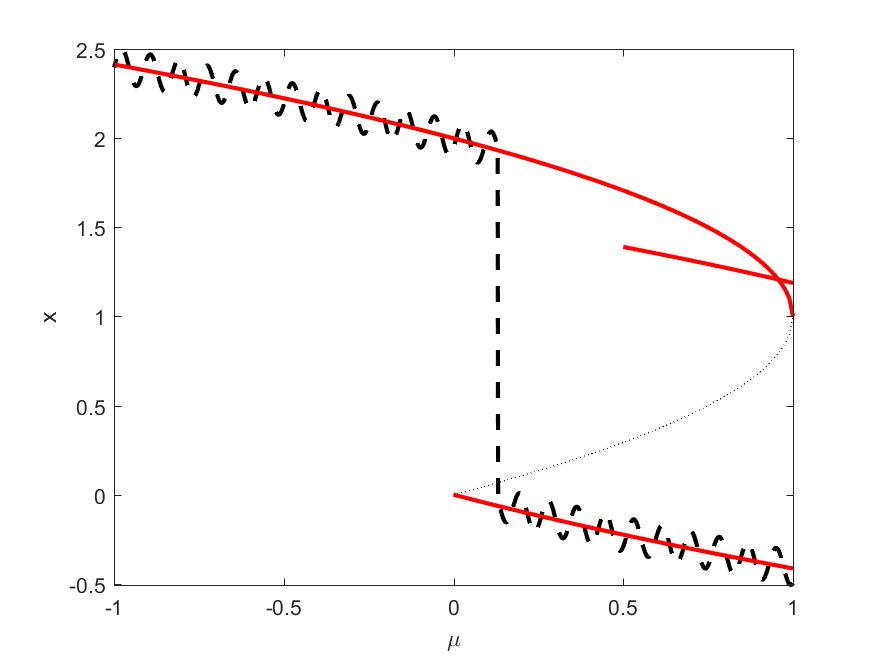
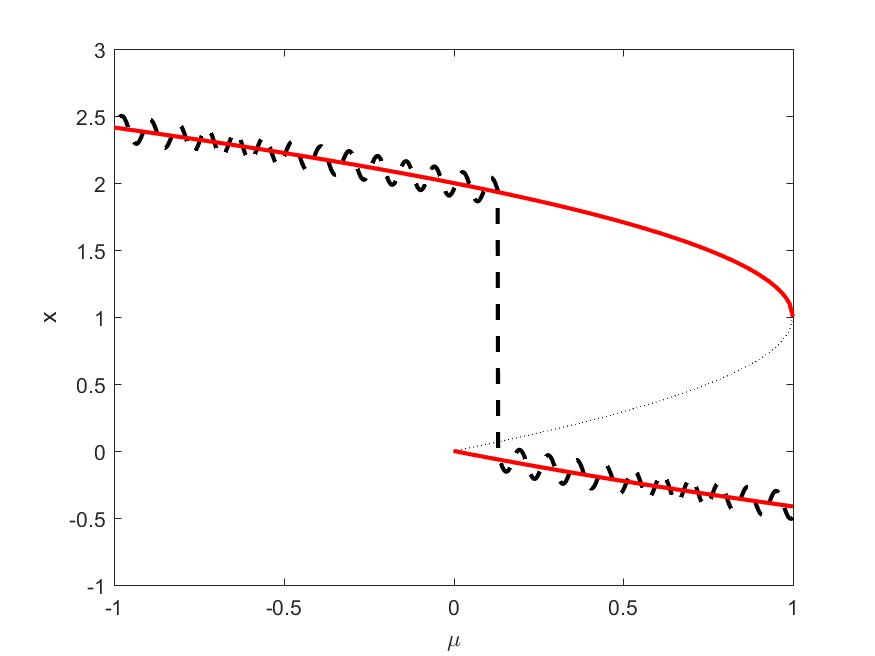
Fixed oneD osc

diff --git a/Complete/OneD_matlab/Osc/oneD_osc_searchcode.m b/Complete/OneD_matlab/Osc/oneD_osc_searchcode.m
@@ -1,0 +1,154 @@
+%Full analysis of OneD  Osc using the root finding code.
+%(1)A dynamics plot and a (2)comparison plot against frequency will be produced
+
+criteria =.2;
+
+% Load function folder
+addpath('C:\Users\codyg\Desktop\MSc_Thesis\Cody\trunk\Complete\Functions')
+cd('C:\Users\codyg\Desktop\MSc_Thesis\Cody\trunk\Complete\Graphs\OneD_w_Osc')
+ 
+%Analysis
+
+%Set up sep size and parameter grid
+h=.01;
+A=1;
+Omega=10;
+start=1;stop=-1;
+yInit=1-sqrt(1+start);
+
+ 
+%Fixed mu
+muper=fliplr(linspace(stop,start,1500));
+N=length(muper);
+xfinal=zeros(1,N);
+for i=1:N
+    t1=0;
+    t2=30;
+    xinit=1-sqrt(1+muper(i));
+    xDE=@(t,x)(-muper(i)+2*abs(x)-x*abs(x)+A*sin(Omega*t));
+    [t,x]=RK2(xDE,xinit,t1,t2,h);
+    xfinal(i)=x(t2/h-N+i);
+end
+ 
+% Here is the application of the root finding algorithm. Now unneccessry. 
+ 
+%Search for bifurcation
+n=3000;
+range=linspace(0,3,n);
+
+%Create range of candidate values
+potentialval=fliplr(linspace(0,A,n));
+
+%Create a logic loop to find bifurcation
+truth=zeros(1,n+1);
+truth(1)=1;
+
+for i=1:n
+    if truth(i)==1
+        fun=@(x)(abs(-A*cos(x)+potentialval(i)));
+        equation=@(m)(-m+(1/pi)*integral(fun,0,2*pi));
+        [m,root]=root_algorithm(equation,range);
+        %Condition to continue or stop at bif
+         if isa(root,'double')
+            truth(i+1)=1;
+         end
+    else
+    end
+    
+end
+
+bif=m/Omega;
+region1 = 2*A/Omega;
+ 
+tipactual=muper(find(xfinal>criteria,1));
+tipactualper=tipactual*ones(1,100);
+
+bifvec = bif*ones(1,100);
+region1vec = region1*ones(1,100);
+tipy = linspace(-1,2,100);
+
+dif=abs(tipactual-bif);
+fprintf('The difference in predicted tip for fixed parameter is %f\n',dif)
+ 
+ 
+mulower=linspace(0,1.5,150);
+lower=@(mu)(1-sqrt(1+mu));
+xlower=lower(mulower);
+ 
+muupper=linspace(-1,1,200);
+upper=@(mu)(1+sqrt(1-mu));
+xupper=upper(muupper);
+ 
+mumid=linspace(0,1,100);
+middle=@(mu)(1-sqrt(1-mu));
+xmid=middle(mumid);
+ 
+ 
+%(1) Dynamics plot
+f1=figure(1);
+    %plot(mu,y,'r-.')
+    plot(muper,xfinal,'k--','linewidth',2)
+    hold on
+    %plot(tipxdel,tipy,'r')
+    xlim([stop,start])
+    plot(mulower,xlower,'r','linewidth',2)
+    hold on
+    plot(mumid,xmid,'k:')
+    plot(muupper,xupper,'r','linewidth',2)
+    xlabel('\mu')
+    ylabel('x')
+
+print('-f1','osc_bif_diagram','-djpeg')
+
+%Zoom
+plot(bifvec, tipy, 'b')
+plot(region1vec, tipy, 'g')
+plot(tipactualper, tipy, 'k--')
+xlim([0 .35])
+ylim([-.25 .3])
+
+print('-f1','osc_bif_diagram_zoom','-djpeg');
+
+%{ 
+
+%(2) Comparison plot
+invOmegavec=linspace(.001,.3,20);
+bifvec=zeros(1,length(invOmegavec));
+bifactualvec=zeros(1,length(invOmegavec));
+M=length(invOmegavec);
+ 
+for i=1:length(invOmegavec)
+    invOmega=invOmegavec(i);
+    %Make sure to have a time step that will capture highly oscillatory
+    %pieces
+    h=2*pi*invOmega/(20);
+    start=1;stop=-1;
+    %Have a parameter grid fine enough to see the different bifurcation
+    %locations for highly oscillatory cases
+    muper=fliplr(linspace(stop,start,1000));
+    N=length(muper);
+    yfinal=zeros(1,N);
+     
+    %Numerical Solution
+    for j=1:N
+        yInit=1-sqrt(1+muper(j));
+        yDE=@(t,y)(-muper(j)+2*abs(y)-y*abs(y)+A*sin(t/invOmega));
+        [t,y]=RK2(yDE,yInit,0,15,h);
+        yfinal(j)=y(end);
+    end
+ 
+    bifvec(i)=4*abs(A)*invOmega/(pi);
+    critera=.2;
+    bifactualvec(i)=muper(find(yfinal>criteria,1));
+end
+ 
+figure(2)
+    plot(invOmegavec,bifvec,'k','linewidth',2);
+    hold on
+    plot(invOmegavec,bifactualvec,'r*');
+    xlabel('\Omega^{-1}');ylabel('\mu-\mu_{ns}')
+
+
+print('-f2','osc_Omegacomp','-djpeg')
+
+%}

diff --git a/Complete/OneD_matlab/Osc/oneD_osc.m b/Complete/OneD_matlab/Osc/oneD_osc.m
@@ -1,4 +1,4 @@
-%Full tanalysis of One D w/ Osc.
+%Full analysis of OneD Osc.
 %(1)A dynamics plot and a (2)comparison plot against frequency will be produced
 
 criteria =.2;
@@ -30,44 +30,17 @@ for i=1:N
     xfinal(i)=x(t2/h-N+i);
 end
  
-% Here is the application of the root finding algorithm. Now unneccessry. 
- 
-%Search for bifurcation
-n=3000;
-range=linspace(0,3,n);
-
-%Create range of candidate values
-potentialval=fliplr(linspace(0,A,n));
-
-%Create a logic loop to find bifurcation
-truth=zeros(1,n+1);
-truth(1)=1;
-
-for i=1:n
-    if truth(i)==1
-        fun=@(x)(abs(-A*cos(x)+potentialval(i)));
-        equation=@(m)(-m+(1/pi)*integral(fun,0,2*pi));
-        [m,root]=root_algorithm(equation,range);
-        %Condition to continue or stop at bif
-         if isa(root,'double')
-            truth(i+1)=1;
-         end
-    else
-    end
-    
-end
-
-bif=m/Omega;
+bif=4*abs(A)/(pi*Omega);
 region1 = 2*A/Omega;
  
-tipactual=muper(find(xfinal>criteria,1));
-tipactualper=tipactual*ones(1,100);
+bifactual=muper(find(xfinal>criteria,1));
+bifactualvec=bifactual*ones(1,100);
 
 bifvec = bif*ones(1,100);
 region1vec = region1*ones(1,100);
-tipy = linspace(-1,2,100);
+yvec = linspace(-1,2,100);
 
-dif=abs(tipactual-bif);
+dif=abs(bifactual-bif);
 fprintf('The difference in predicted tip for fixed parameter is %f\n',dif)
  
  
@@ -101,9 +74,9 @@ f1=figure(1);
 print('-f1','osc_bif_diagram','-djpeg')
 
 %Zoom
-plot(bifvec, tipy, 'b')
-plot(region1vec, tipy, 'g')
-plot(tipactualper, tipy, 'k--')
+plot(bifvec, yvec, 'b')
+plot(region1vec, yvec, 'g')
+plot(bifactualvec, yvec, 'k--')
 xlim([0 .35])
 ylim([-.25 .3])
 
@@ -138,7 +111,6 @@ for i=1:length(invOmegavec)
     end
  
     bifvec(i)=4*abs(A)*invOmega/(pi);
-    critera=.2;
     bifactualvec(i)=muper(find(yfinal>criteria,1));
 end
  
